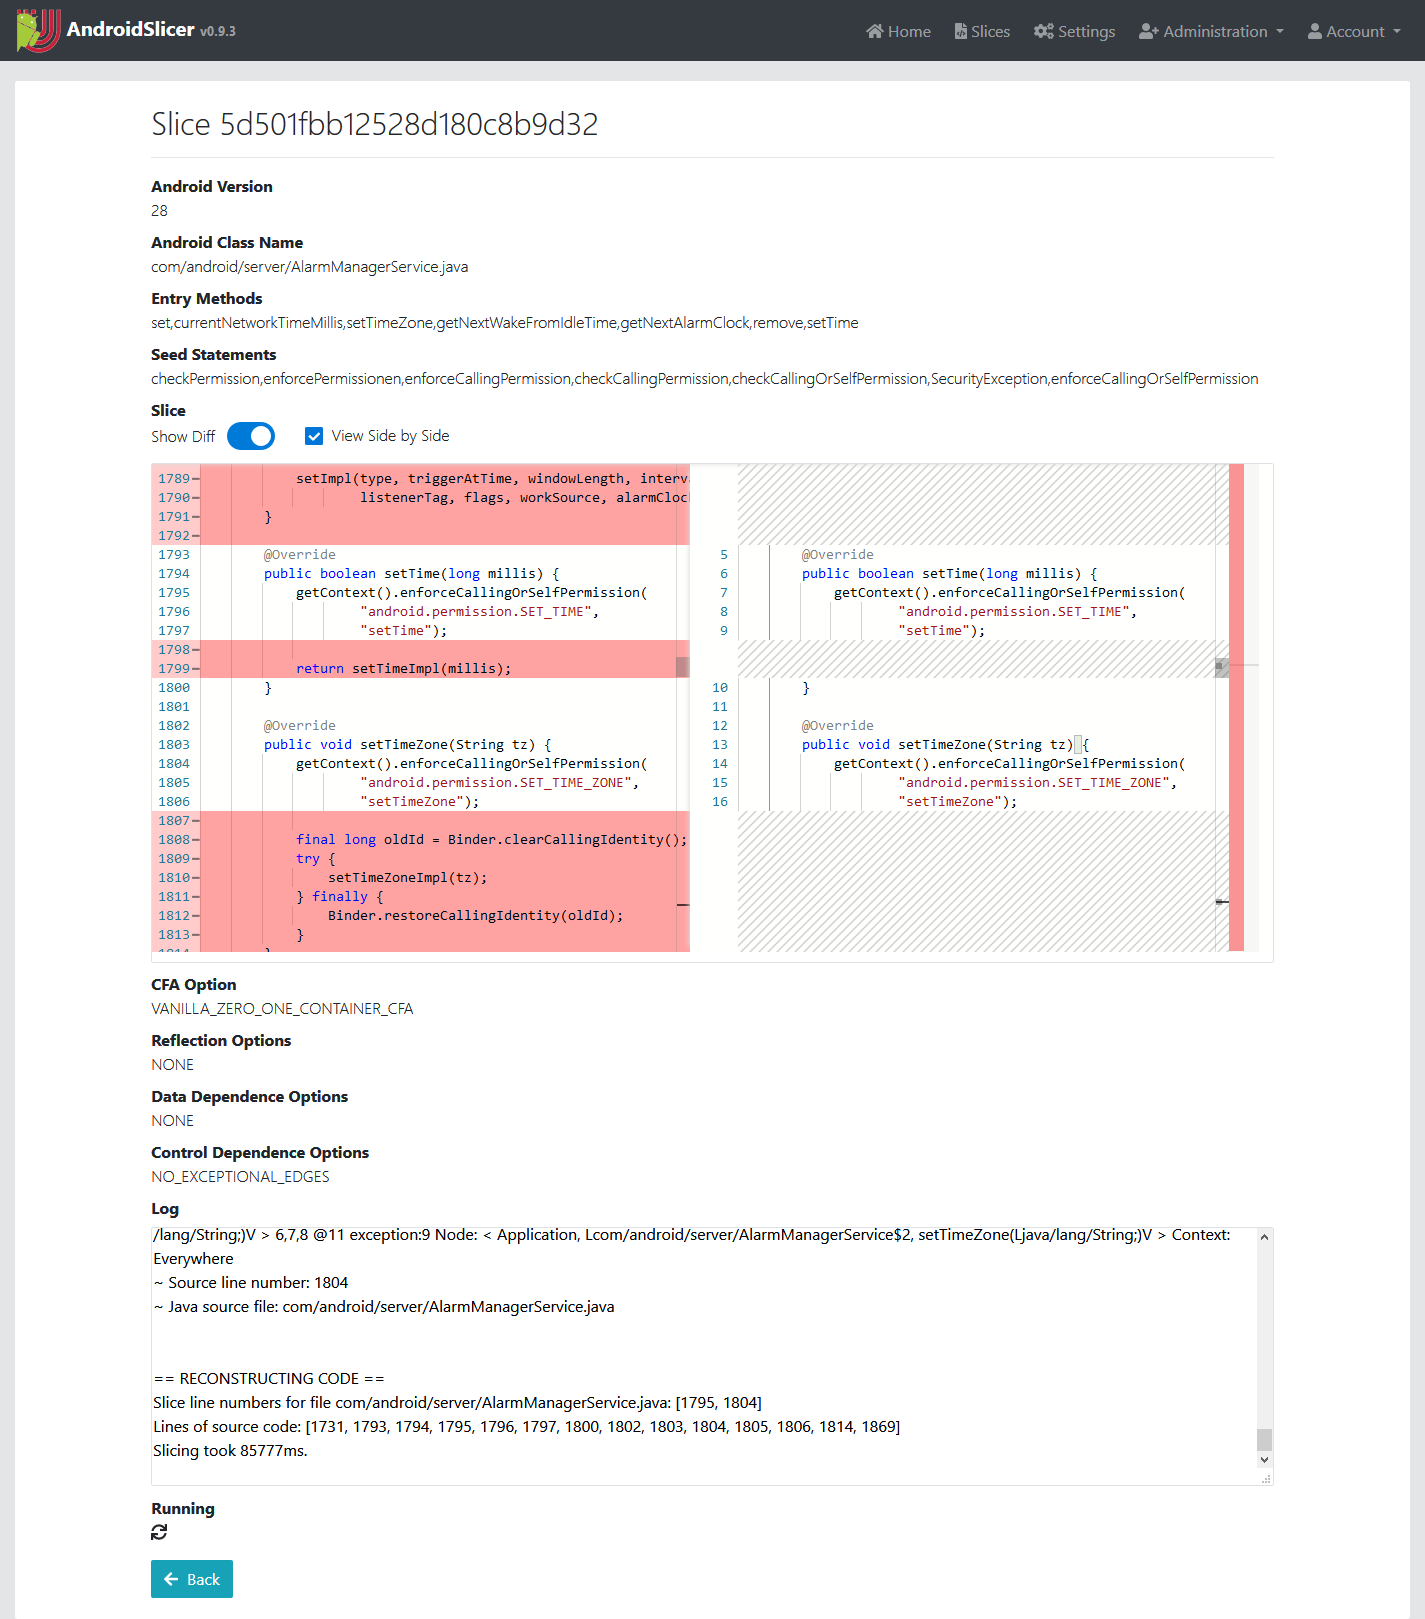
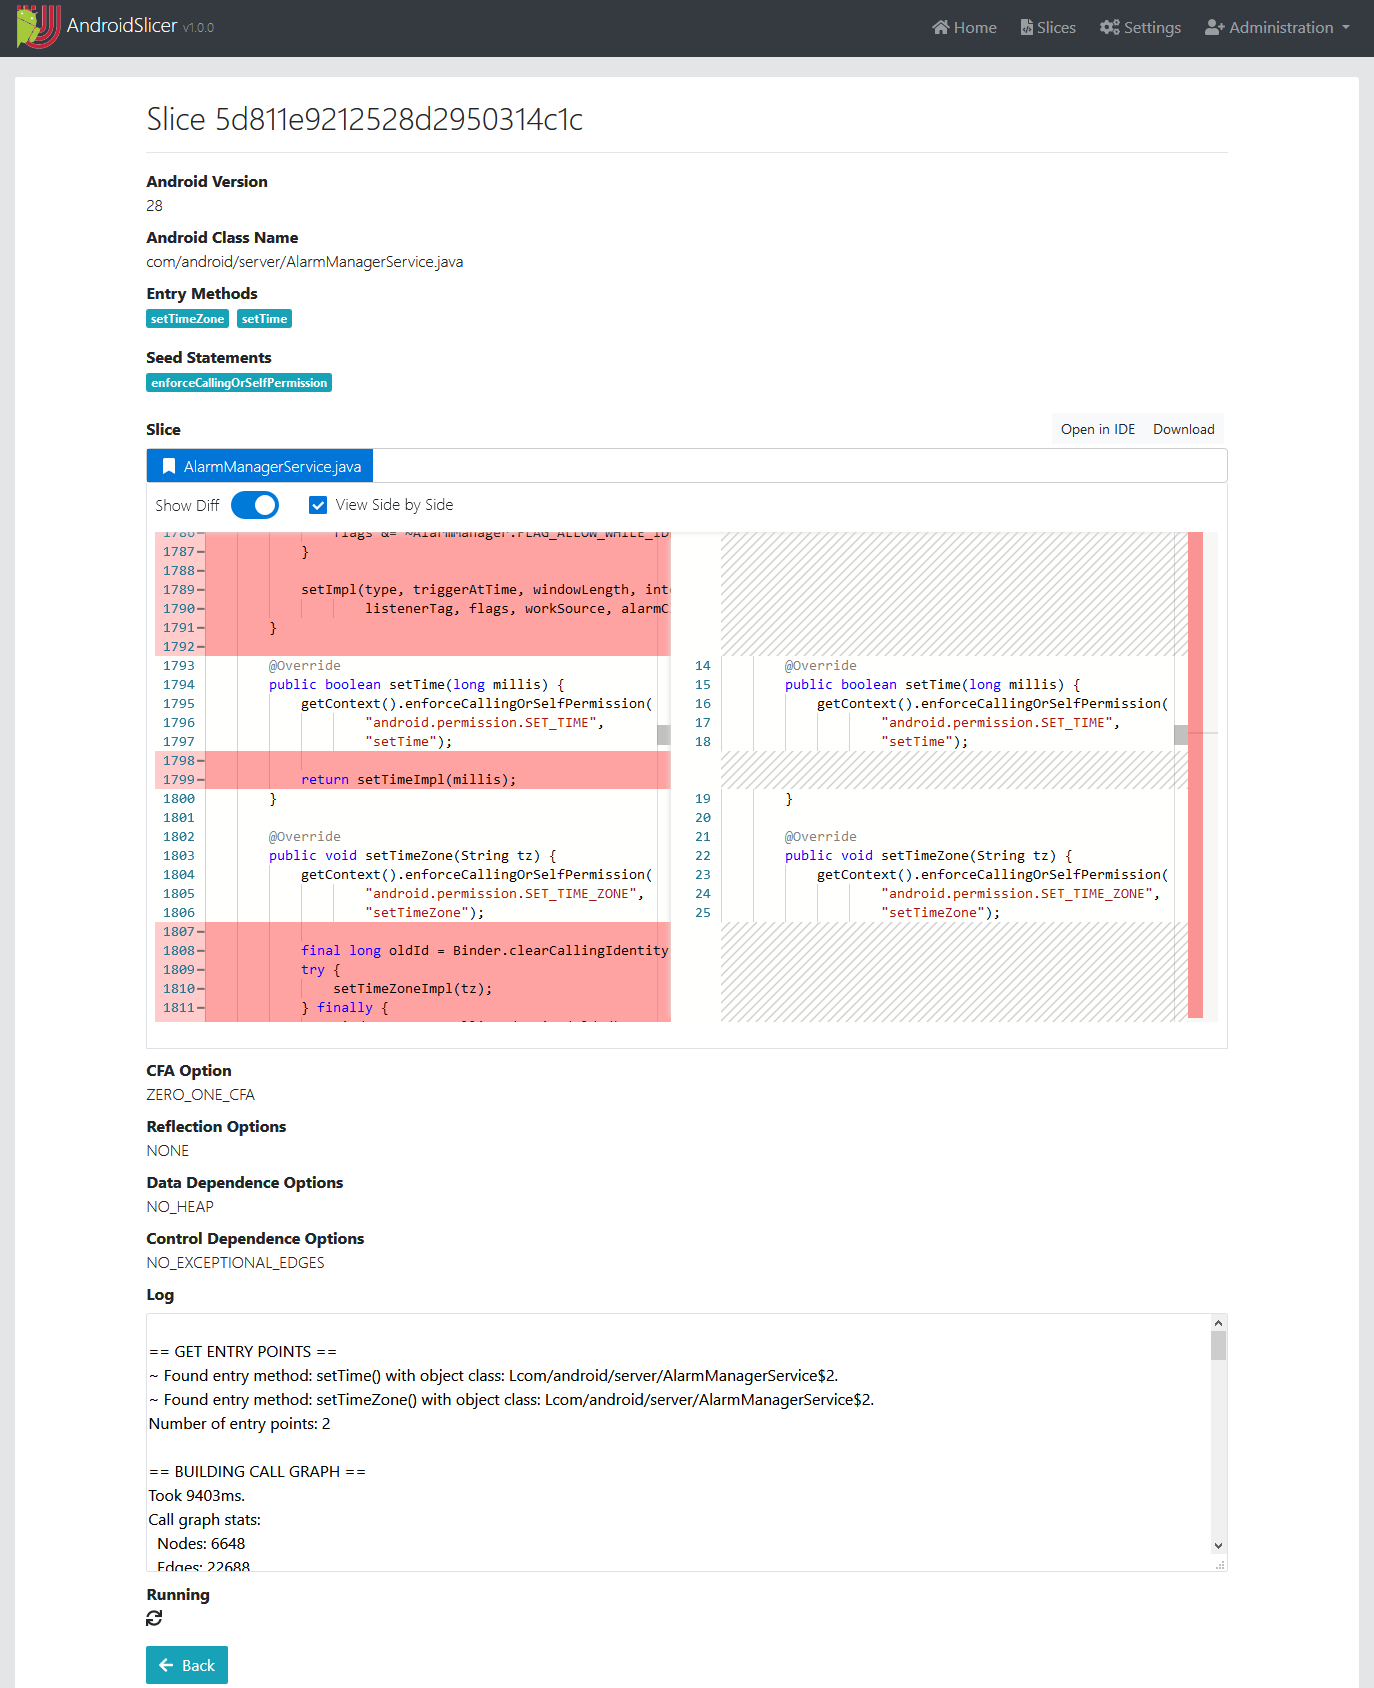
added code-server documentation

Changed region(s): [[0.0, 0.0, 1.0, 1.0]]

diff --git a/README.md b/README.md
@@ -125,6 +125,10 @@ Die Detailansicht gibt eine Übersicht über die gewählten Slicing-Parameter un
 
 Der Slice kann dabei mit dem originalen Quelltext verglichen werden. Eine Diff-Ansicht der beiden Code-Dateien kann über den `Show Diff`-Button aktiviert werden.
 
+Zur Weiterverarbeitung der Slicing-Ergebnisse mit anderen Tools oder einer IDE-Nutzung stehen verschiedene Optionen zur Verfügung. Zunächst wird der Slice-Code im Ausführungsverzeichnis des Android-Slicers unter dem Verzeichnis `output` gespeichert. Sofern der Benutzer keinen Zugriff auf das Host-System des Android-Slicers hat, kann der Slice-Code weiterhin über die `Download`-Schaltfläche in der Detailansicht im Browser heruntergeladen werden. Zusätzlich bietet die `Open in DIE`-Funktion die Möglichkeit einen VS Code-Server zu starten. Dafür muss im Ausführungsverzeichnis der Ordner `code-server` vorhanden sein. Dort sucht der Android-Slicer, abhängig vom Betriebssystem, in den Unterordnern `win`, `lin` oder `mac` nach der Datei `code-server`.
+
+Der Pfad zu den `code-server`-Dateien sowie der Port der Server-Instanz lassen sich in den Einstellungen anpassen. Dabei sollte beachtet werden, dass die kopierten oder heruntergeladen `code-server`-Dateien ggf. noch zusätzliche Ausführungsrechte auf dem Serversystem benötigen. Unter Linux z.B. mit Hilfe des Kommandos `chmod +x code-server`.
+
 # Einbindung der Android-Ressourcen
 Der Android-Slicer benötigt sowohl zur Auswahl und Anzeige der Android-Services als auch zur Rekonstruktion des Quellcodes während des Slicing-Prozesses die Java-Quelldateien der entsprechenden Klassen. Die Berechnung der Slices mittels WALA erfolgt dagegen auf Binärebene, sodass zusätzlich die kompilierten .class-Dateien innerhalb einer `android.jar`-Datei bereitgestellt werden müssen.  Diese sind für das API-Level 28 (Android 9) im Ordner 
 
